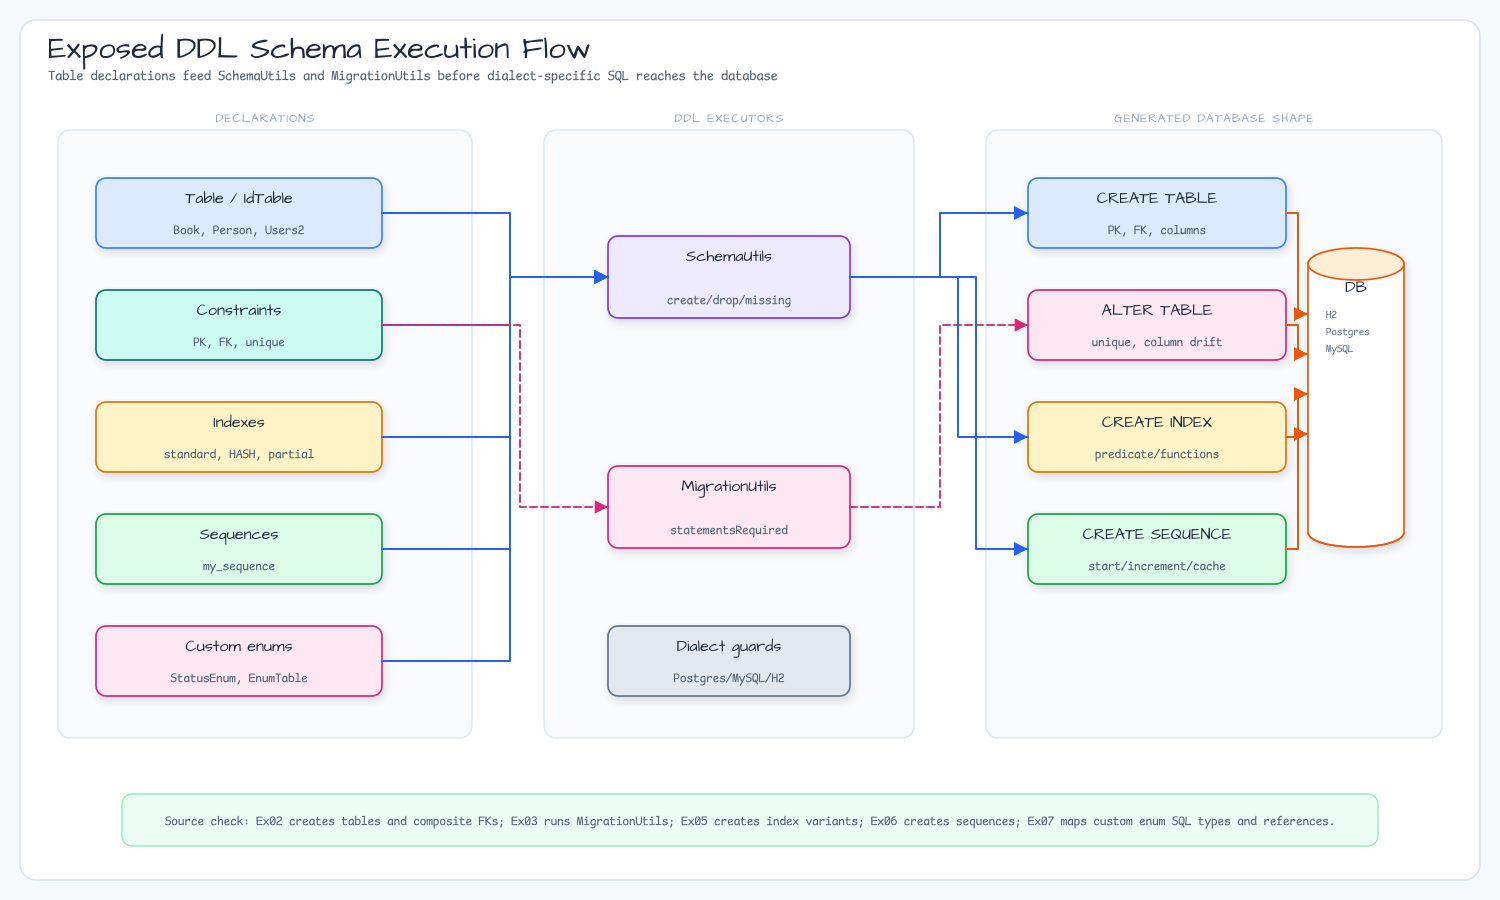
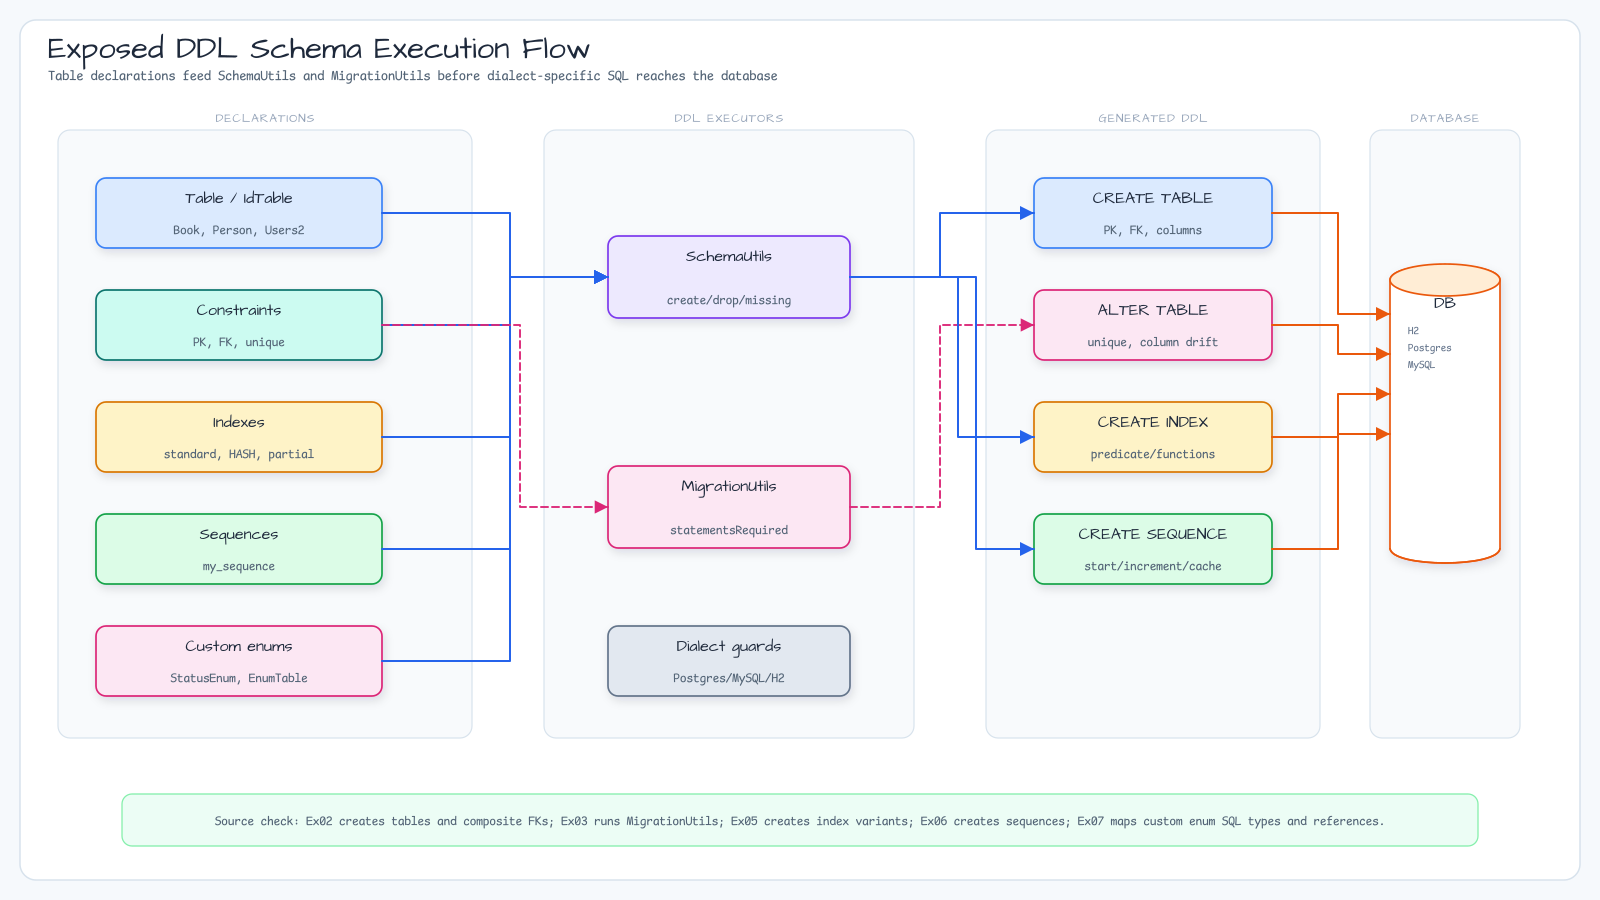
docs: tune reviewed DDL diagram routing
Apply review feedback to separate generated DDL from the database region and route utility/class relationships more directly.

Constraint: Diagram batches are accepted only after Preview review with source-derived semantics preserved.

Rejected: Leaving DB inside the generated DDL region | it conflates statements with the target database and makes arrows unclear.

Confidence: medium

Scope-risk: narrow

Directive: Keep statement regions and physical/external database regions visually separate in future architecture diagrams.

Tested: node scripts/render-reviewed-diagram-batch-06.js; xmllint --noout on updated SVGs; git diff --check; Preview review of updated originals.

Not-tested: GitHub rendered README view.

diff --git a/scripts/render-reviewed-diagram-batch-06.js b/scripts/render-reviewed-diagram-batch-06.js
@@ -51,7 +51,7 @@ const diagrams = [
     file: `${outDir}/04-exposed-ddl-02-ddl-architecture-01.svg`,
     title: "Exposed DDL Schema Execution Flow",
     subtitle: "Table declarations feed SchemaUtils and MigrationUtils before dialect-specific SQL reaches the database",
-    width: 1500,
+    width: 1600,
     height: 900,
     body: ddlExecutionArchitecture,
   },
@@ -208,12 +208,14 @@ function ddlExecutionArchitecture() {
   b += card(608, 466, 242, 82, "MigrationUtils", 4, "statementsRequired");
   b += card(608, 626, 242, 70, "Dialect guards", 7, "Postgres/MySQL/H2");
 
-  b += panel(986, 130, 456, 608, "Generated database shape");
-  b += card(1028, 178, 258, 70, "CREATE TABLE", 0, "PK, FK, columns");
-  b += card(1028, 290, 258, 70, "ALTER TABLE", 4, "unique, column drift");
-  b += card(1028, 402, 258, 70, "CREATE INDEX", 6, "predicate/functions");
-  b += card(1028, 514, 258, 70, "CREATE SEQUENCE", 2, "start/increment/cache");
-  b += cylinder(1308, 248, 96, 300, "DB", ["H2", "Postgres", "MySQL"], 3);
+  b += panel(986, 130, 334, 608, "Generated DDL");
+  b += card(1034, 178, 238, 70, "CREATE TABLE", 0, "PK, FK, columns");
+  b += card(1034, 290, 238, 70, "ALTER TABLE", 4, "unique, column drift");
+  b += card(1034, 402, 238, 70, "CREATE INDEX", 6, "predicate/functions");
+  b += card(1034, 514, 238, 70, "CREATE SEQUENCE", 2, "start/increment/cache");
+
+  b += panel(1370, 130, 150, 608, "Database");
+  b += cylinder(1390, 264, 110, 300, "DB", ["H2", "Postgres", "MySQL"], 3);
 
   b += path("M382,213 L608,277", "arrow", "M382,213 L510,213 L510,277 L608,277");
   b += path("M382,325 L608,277", "arrow", "M382,325 L510,325 L510,277 L608,277");
@@ -222,17 +224,17 @@ function ddlExecutionArchitecture() {
   b += path("M382,661 L608,277", "arrow", "M382,661 L510,661 L510,277 L608,277");
   b += path("M382,325 L608,507", "migration", "M382,325 L520,325 L520,507 L608,507");
 
-  b += path("M850,277 L1028,213", "arrow", "M850,277 L940,277 L940,213 L1028,213");
-  b += path("M850,507 L1028,325", "migration", "M850,507 L940,507 L940,325 L1028,325");
-  b += path("M850,277 L1028,437", "arrow", "M850,277 L958,277 L958,437 L1028,437");
-  b += path("M850,277 L1028,549", "arrow", "M850,277 L976,277 L976,549 L1028,549");
+  b += path("M850,277 L1034,213", "arrow", "M850,277 L940,277 L940,213 L1034,213");
+  b += path("M850,507 L1034,325", "migration", "M850,507 L940,507 L940,325 L1034,325");
+  b += path("M850,277 L1034,437", "arrow", "M850,277 L958,277 L958,437 L1034,437");
+  b += path("M850,277 L1034,549", "arrow", "M850,277 L976,277 L976,549 L1034,549");
 
-  b += path("M1286,213 L1308,314", "dbUse", "M1286,213 L1298,213 L1298,314 L1308,314");
-  b += path("M1286,325 L1308,354", "dbUse", "M1286,325 L1298,325 L1298,354 L1308,354");
-  b += path("M1286,437 L1308,394", "dbUse", "M1286,437 L1298,437 L1298,394 L1308,394");
-  b += path("M1286,549 L1308,434", "dbUse", "M1286,549 L1298,549 L1298,434 L1308,434");
+  b += path("M1272,213 L1390,314", "dbUse", "M1272,213 L1338,213 L1338,314 L1390,314");
+  b += path("M1272,325 L1390,354", "dbUse", "M1272,325 L1338,325 L1338,354 L1390,354");
+  b += path("M1272,437 L1390,394", "dbUse", "M1272,437 L1338,437 L1338,394 L1390,394");
+  b += path("M1272,549 L1390,434", "dbUse", "M1272,549 L1338,549 L1338,434 L1390,434");
 
-  b += note(122, 794, 1256, "Source check: Ex02 creates tables and composite FKs; Ex03 runs MigrationUtils; Ex05 creates index variants; Ex06 creates sequences; Ex07 maps custom enum SQL types and references.");
+  b += note(122, 794, 1356, "Source check: Ex02 creates tables and composite FKs; Ex03 runs MigrationUtils; Ex05 creates index variants; Ex06 creates sequences; Ex07 maps custom enum SQL types and references.");
   return b;
 }
 
@@ -261,13 +263,13 @@ function ddlClassModel() {
   b += umlClass(844, 534, 210, 112, "SchemaUtils", ["create/drop", "createSequence/dropSequence", "createMissingTablesAndColumns"], 1, "jdbc utility");
   b += umlClass(1108, 534, 210, 112, "MigrationUtils", ["statementsRequiredForDatabaseMigration"], 4, "migration utility");
 
-  b += labelPill(882, 292, 114, "extends Table", "#dbeafe");
-  b += labelPill(1154, 292, 124, "extends Table", "#dbeafe");
-  b += labelPill(882, 474, 114, "extends Table", "#dbeafe");
-  b += labelPill(1130, 474, 158, "extends IntIdTable", "#dcfce7");
-  b += path("M844,590 L812,590 L812,397 L844,397", "runtimeUse");
+  b += labelPill(882, 142, 114, "extends Table", "#dbeafe");
+  b += labelPill(1154, 142, 124, "extends Table", "#dbeafe");
+  b += labelPill(882, 306, 114, "extends Table", "#dbeafe");
+  b += labelPill(1130, 306, 158, "extends IntIdTable", "#dcfce7");
+  b += path("M949,534 L949,460", "runtimeUse");
   b += path("M1054,590 L1082,590 L1082,397 L1108,397", "runtimeUse");
-  b += path("M1318,590 L1356,590 L1356,397 L1318,397", "migration");
+  b += path("M1213,534 L1213,460", "migration");
   b += note(138, 822, 1224, "UML check: supertypes stay above children, hollow generalization triangles are explicit, and every stem meets the triangle base vertically.");
   return b;
 }
